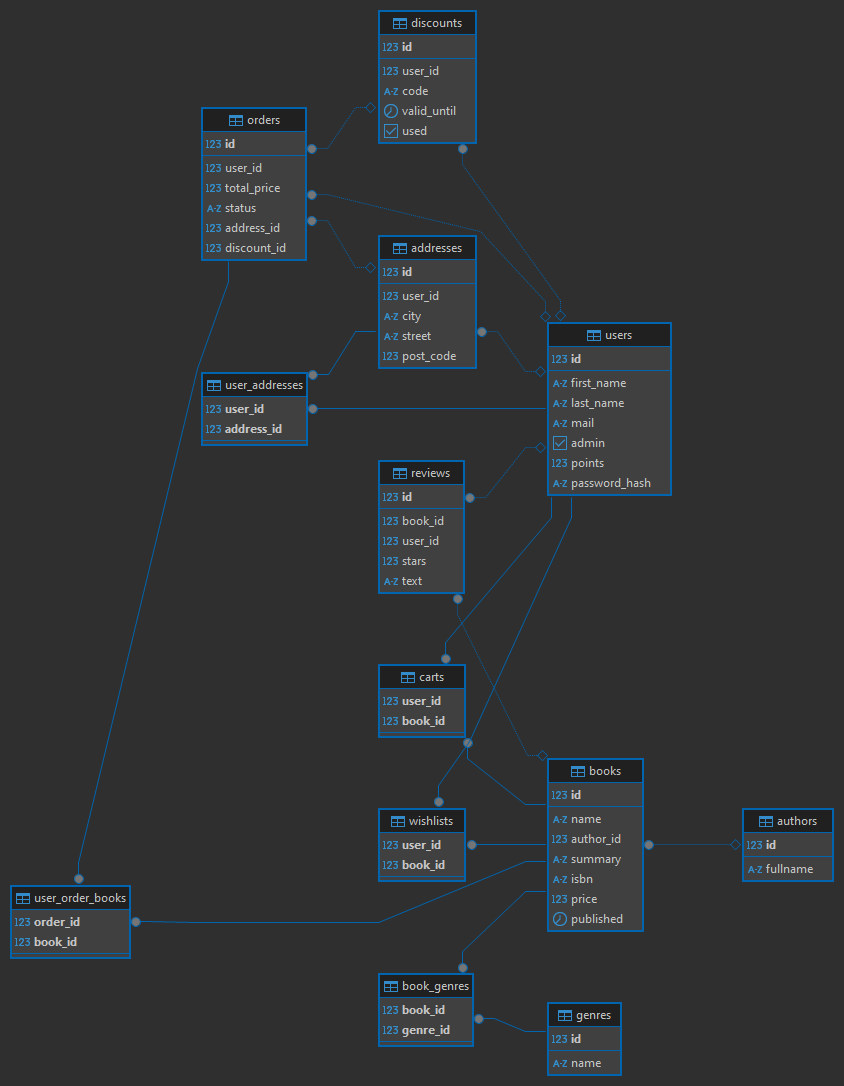
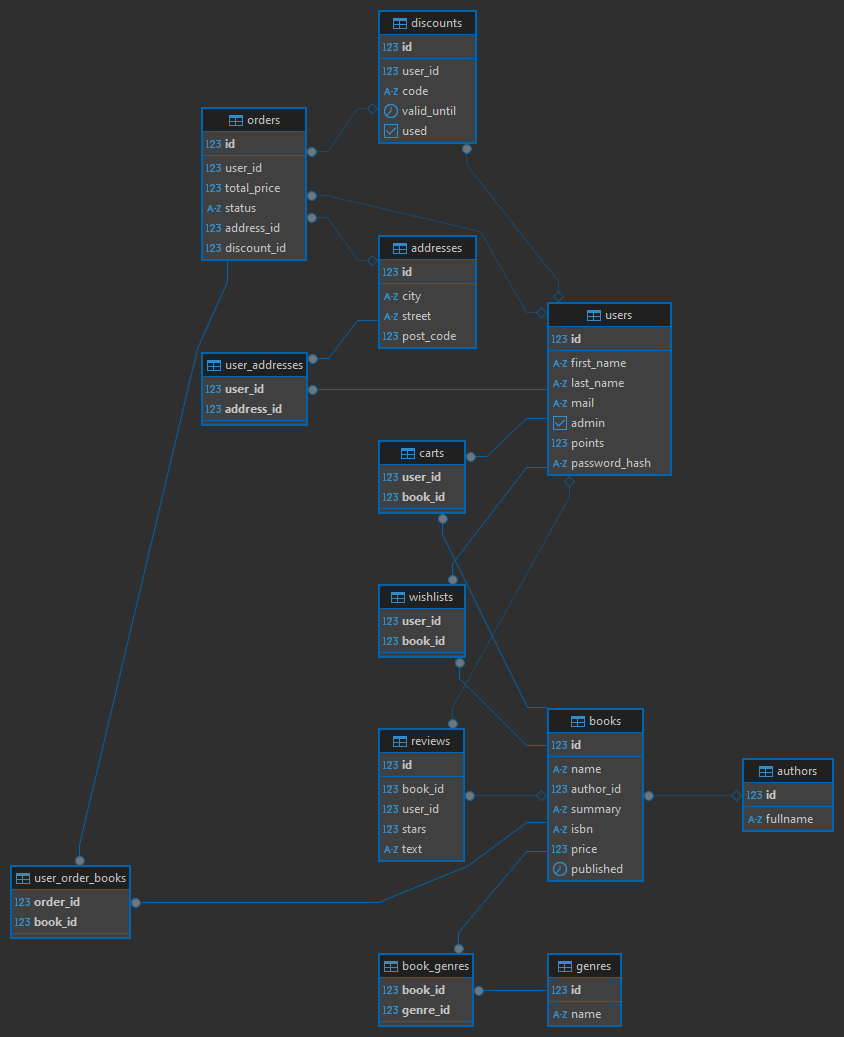
Oprava atributů adresy.

diff --git a/models/address.go b/models/address.go
@@ -2,11 +2,7 @@ package models
 
 type Address struct {
 	ID       uint
-	UserID   uint
 	City     string
 	Street   string
 	PostCode int
-
-	// Uživatel
-	User User // TODO skrýt ve JSONu
 }
